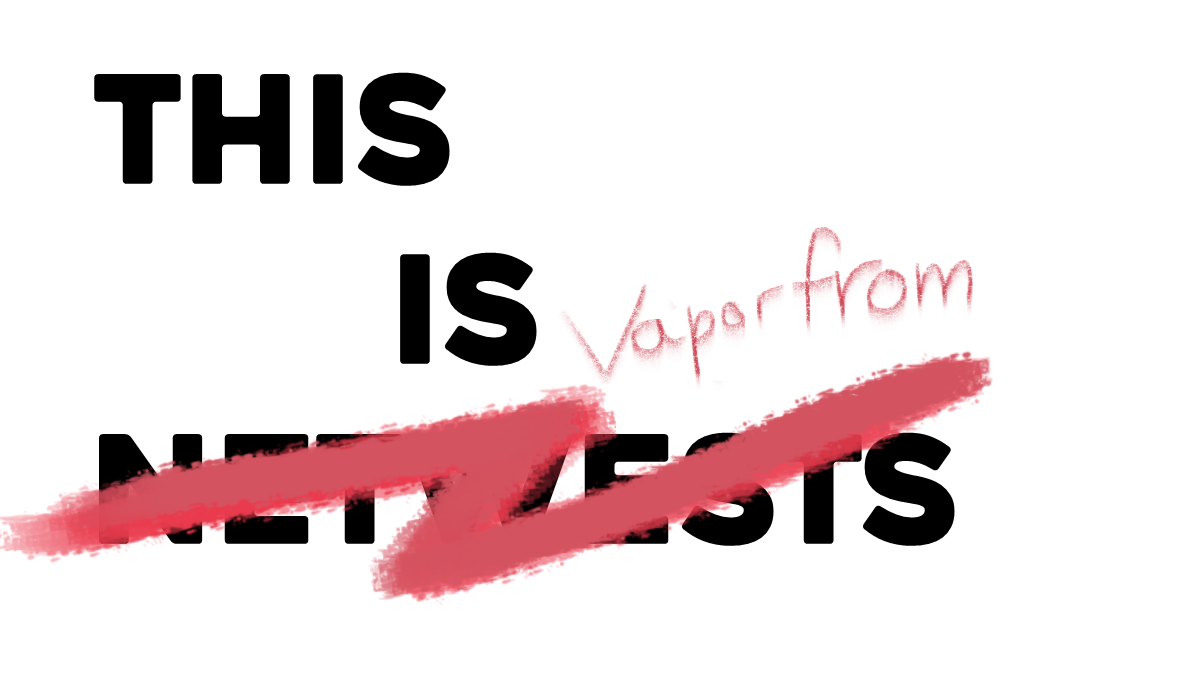
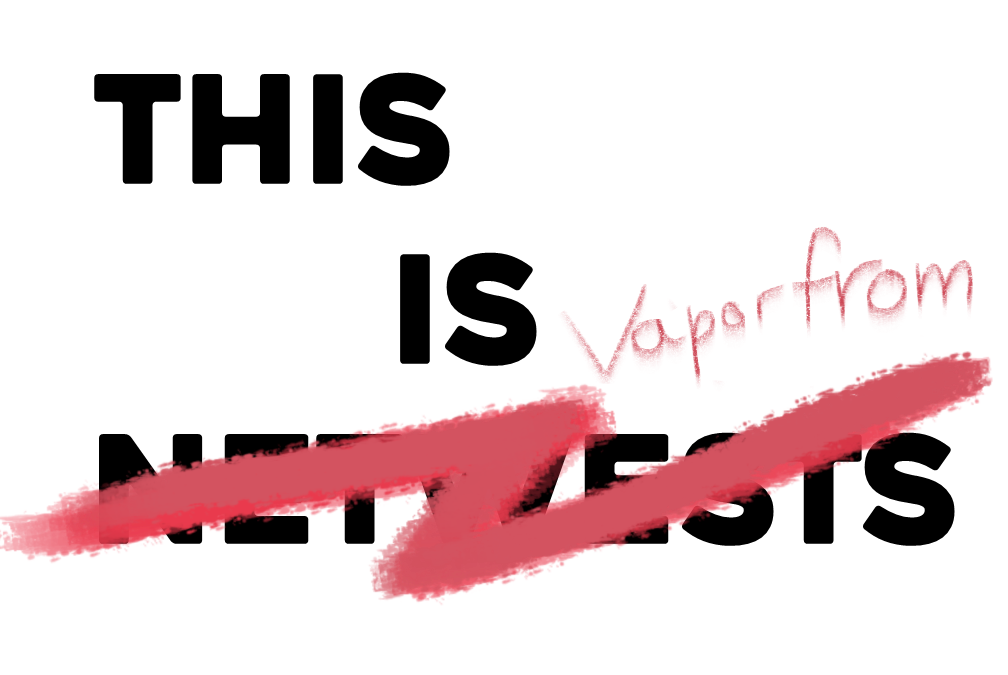
Center image

diff --git a/index.html b/index.html
@@ -10,10 +10,10 @@
 <body>
 
     <div>
-        <img data-tilt src="Pictures/tin2.png" alt="Introduction!" width=600  style="padding-top: 8%; min-width: 100%; height: auto; width: auto\9;">
+        <center><img data-tilt src="Pictures/tin2.png" alt="Introduction!" width=600  style="justify-content: center; padding-top: 8%; min-width: 1%; height: auto; width: auto\9;"></center>
         <hr noshade>
 
-        <p class="header" style="font-size:1.5cm;min-width: 100%; position: 30px; color: blac;">Proojjjeccts</p>
+        <p class="header" style="font-size:1.2cm;min-width: 100%; position: 30px; color: blac;">Projjjeccts</p>
 
     </div>
 
